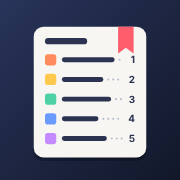
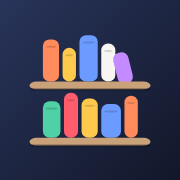
名前を Shelf に変更し、本棚のアイコンに作り直す
Claude-Session: https://claude.ai/code/session_01EUtD6jXb7pCJWQMxVxmi7K

diff --git a/index.html b/index.html
@@ -3,21 +3,21 @@
 <head>
   <meta charset="utf-8">
   <meta name="viewport" content="width=device-width, initial-scale=1, viewport-fit=cover">
-  <title>Code Memo</title>
+  <title>Shelf</title>
   <meta name="description" content="kyosuke0306 が作ってきたものの一覧">
   <meta name="theme-color" content="#f6f5f2" media="(prefers-color-scheme: light)">
   <meta name="theme-color" content="#141414" media="(prefers-color-scheme: dark)">
-  <link rel="icon" href="icons/icon.svg" type="image/svg+xml">
-  <link rel="icon" href="icons/favicon-32.png" sizes="32x32" type="image/png">
-  <link rel="apple-touch-icon" href="icons/apple-touch-icon.png">
-  <link rel="manifest" href="manifest.webmanifest">
+  <link rel="icon" href="icons/icon.svg?v=2" type="image/svg+xml">
+  <link rel="icon" href="icons/favicon-32.png?v=2" sizes="32x32" type="image/png">
+  <link rel="apple-touch-icon" href="icons/apple-touch-icon.png?v=2">
+  <link rel="manifest" href="manifest.webmanifest?v=2">
   <meta name="apple-mobile-web-app-capable" content="yes">
-  <meta name="apple-mobile-web-app-title" content="Code Memo">
+  <meta name="apple-mobile-web-app-title" content="Shelf">
   <link rel="stylesheet" href="style.css">
 </head>
 <body>
   <header class="top">
-    <h1>Code Memo</h1>
+    <h1>Shelf</h1>
     <p class="sub">作ってきたもの <span id="count"></span></p>
     <div class="bar">
       <nav id="filters" class="filters" aria-label="カテゴリで絞り込み"></nav>

diff --git a/README.md b/README.md
@@ -1,4 +1,4 @@
-# Code Memo
+# Shelf
 
 これまで作ったものを、画面の画像とタイトルで一覧にまとめたサイト。タップすると詳しく見られます。
 
